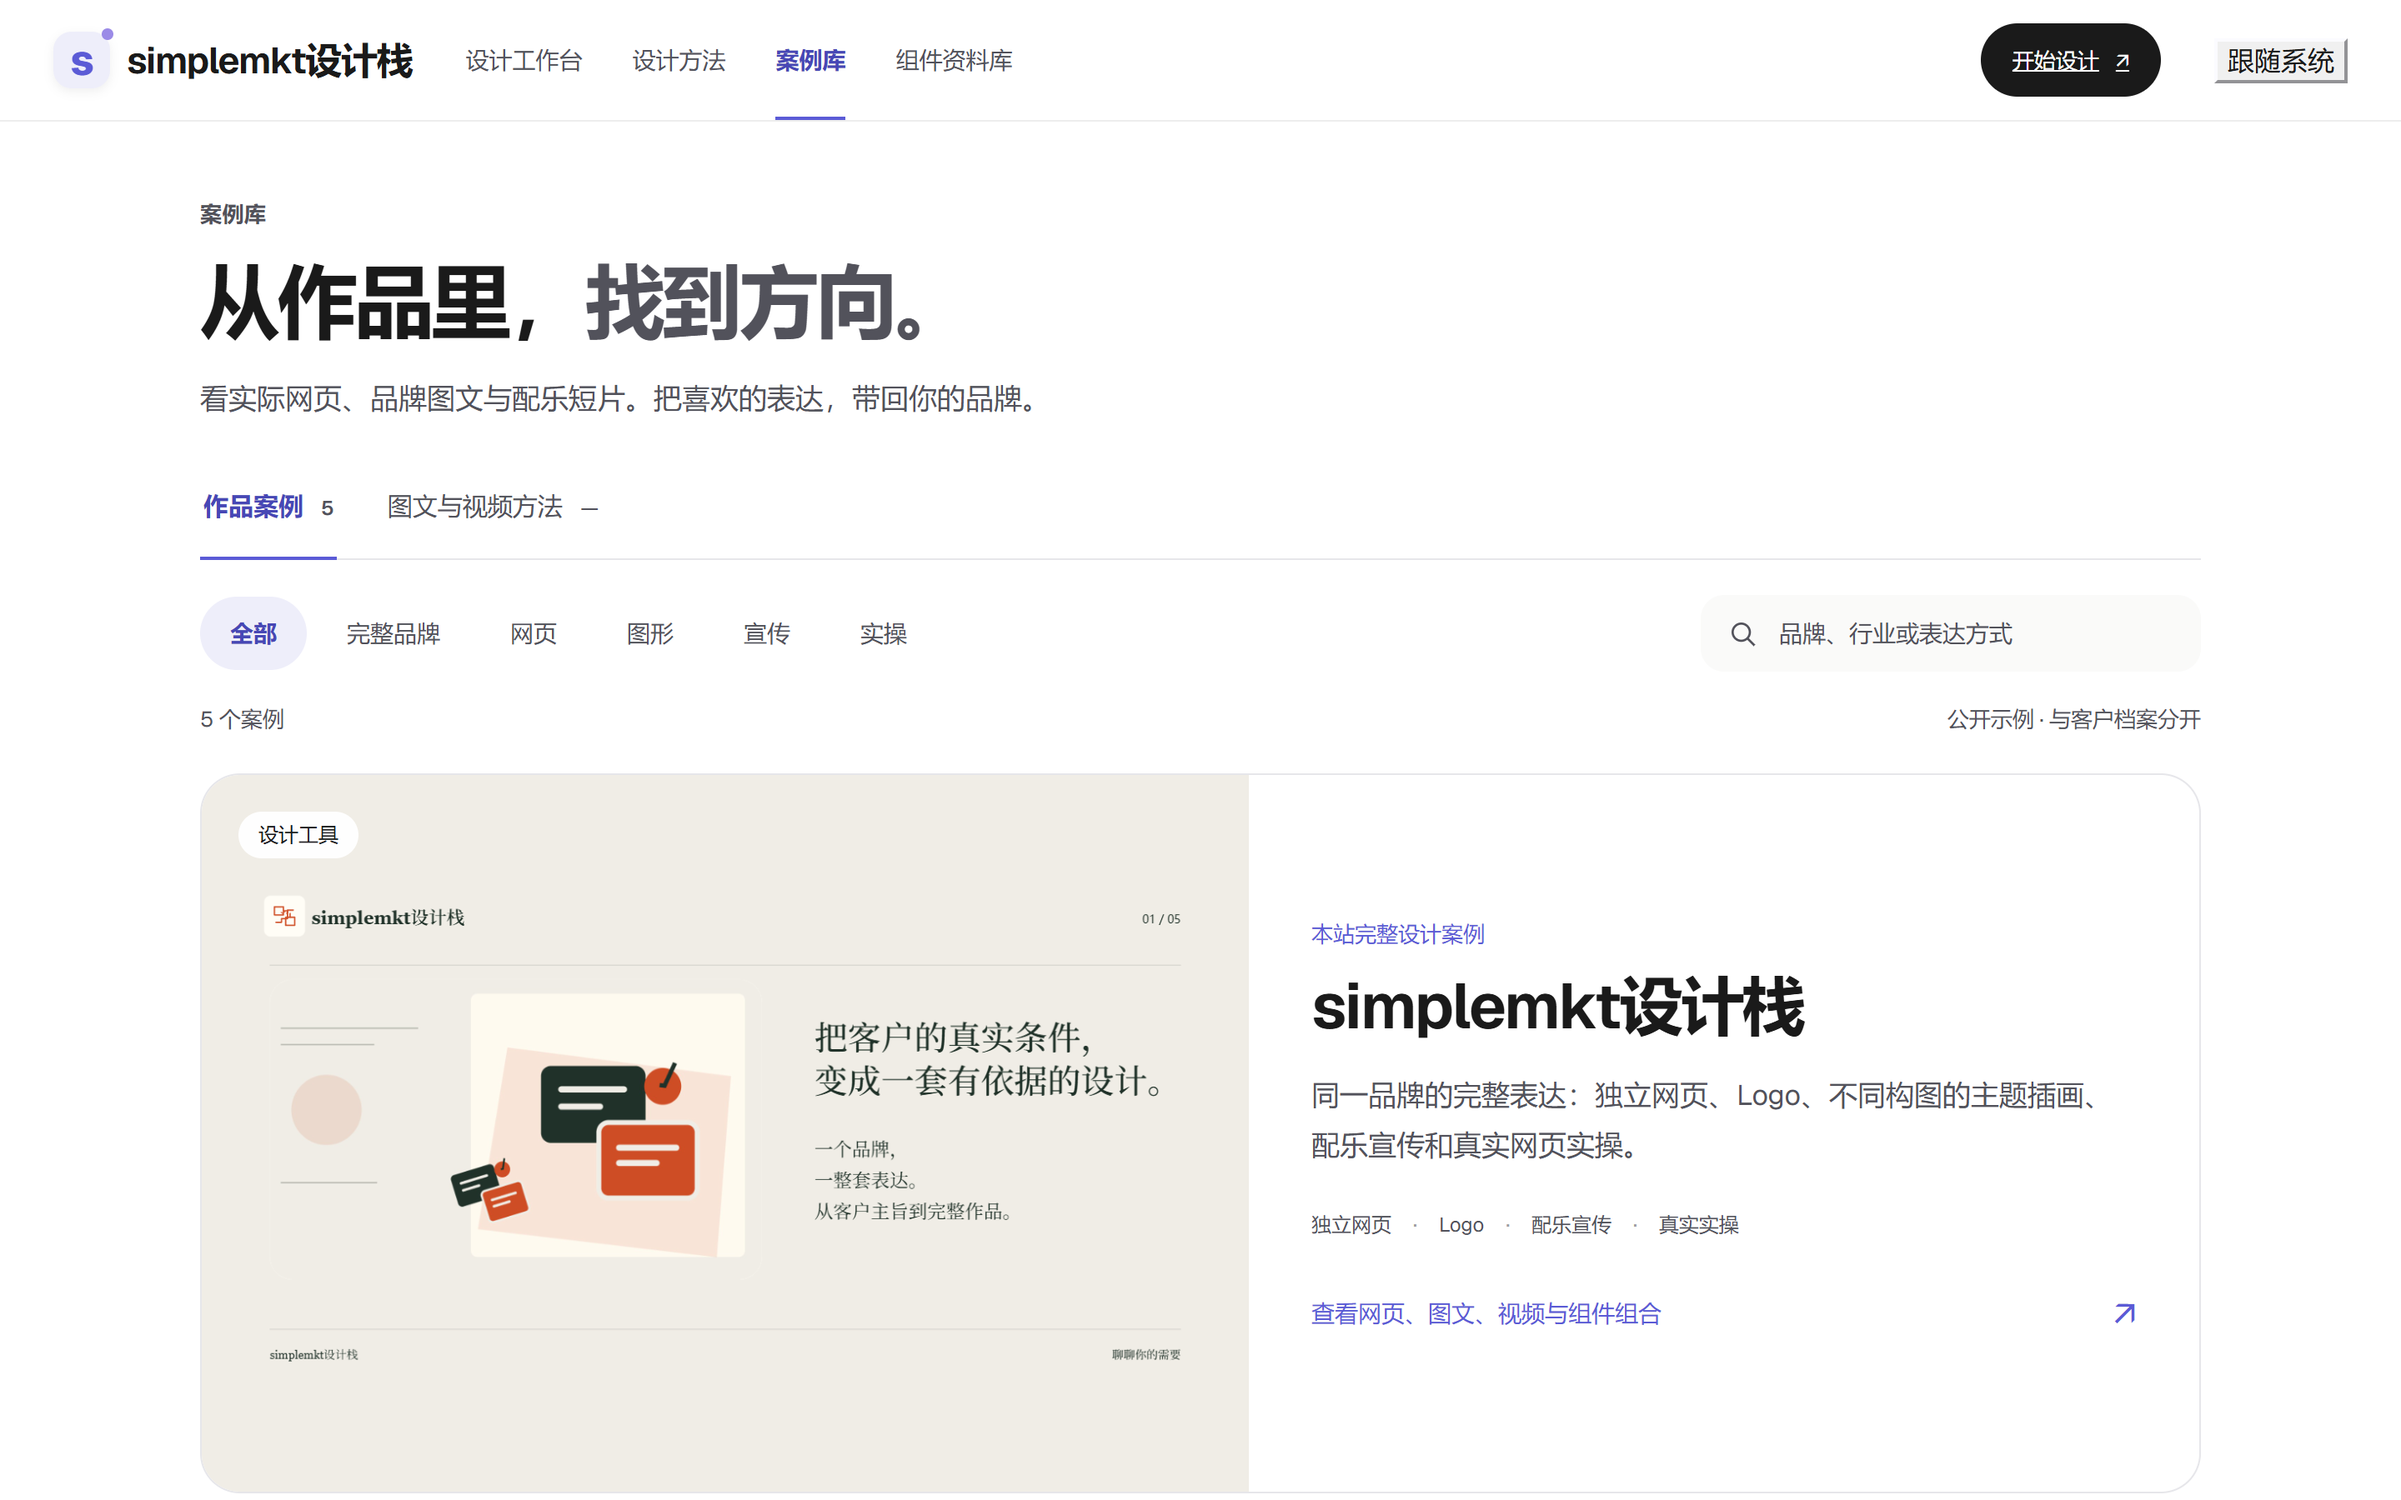
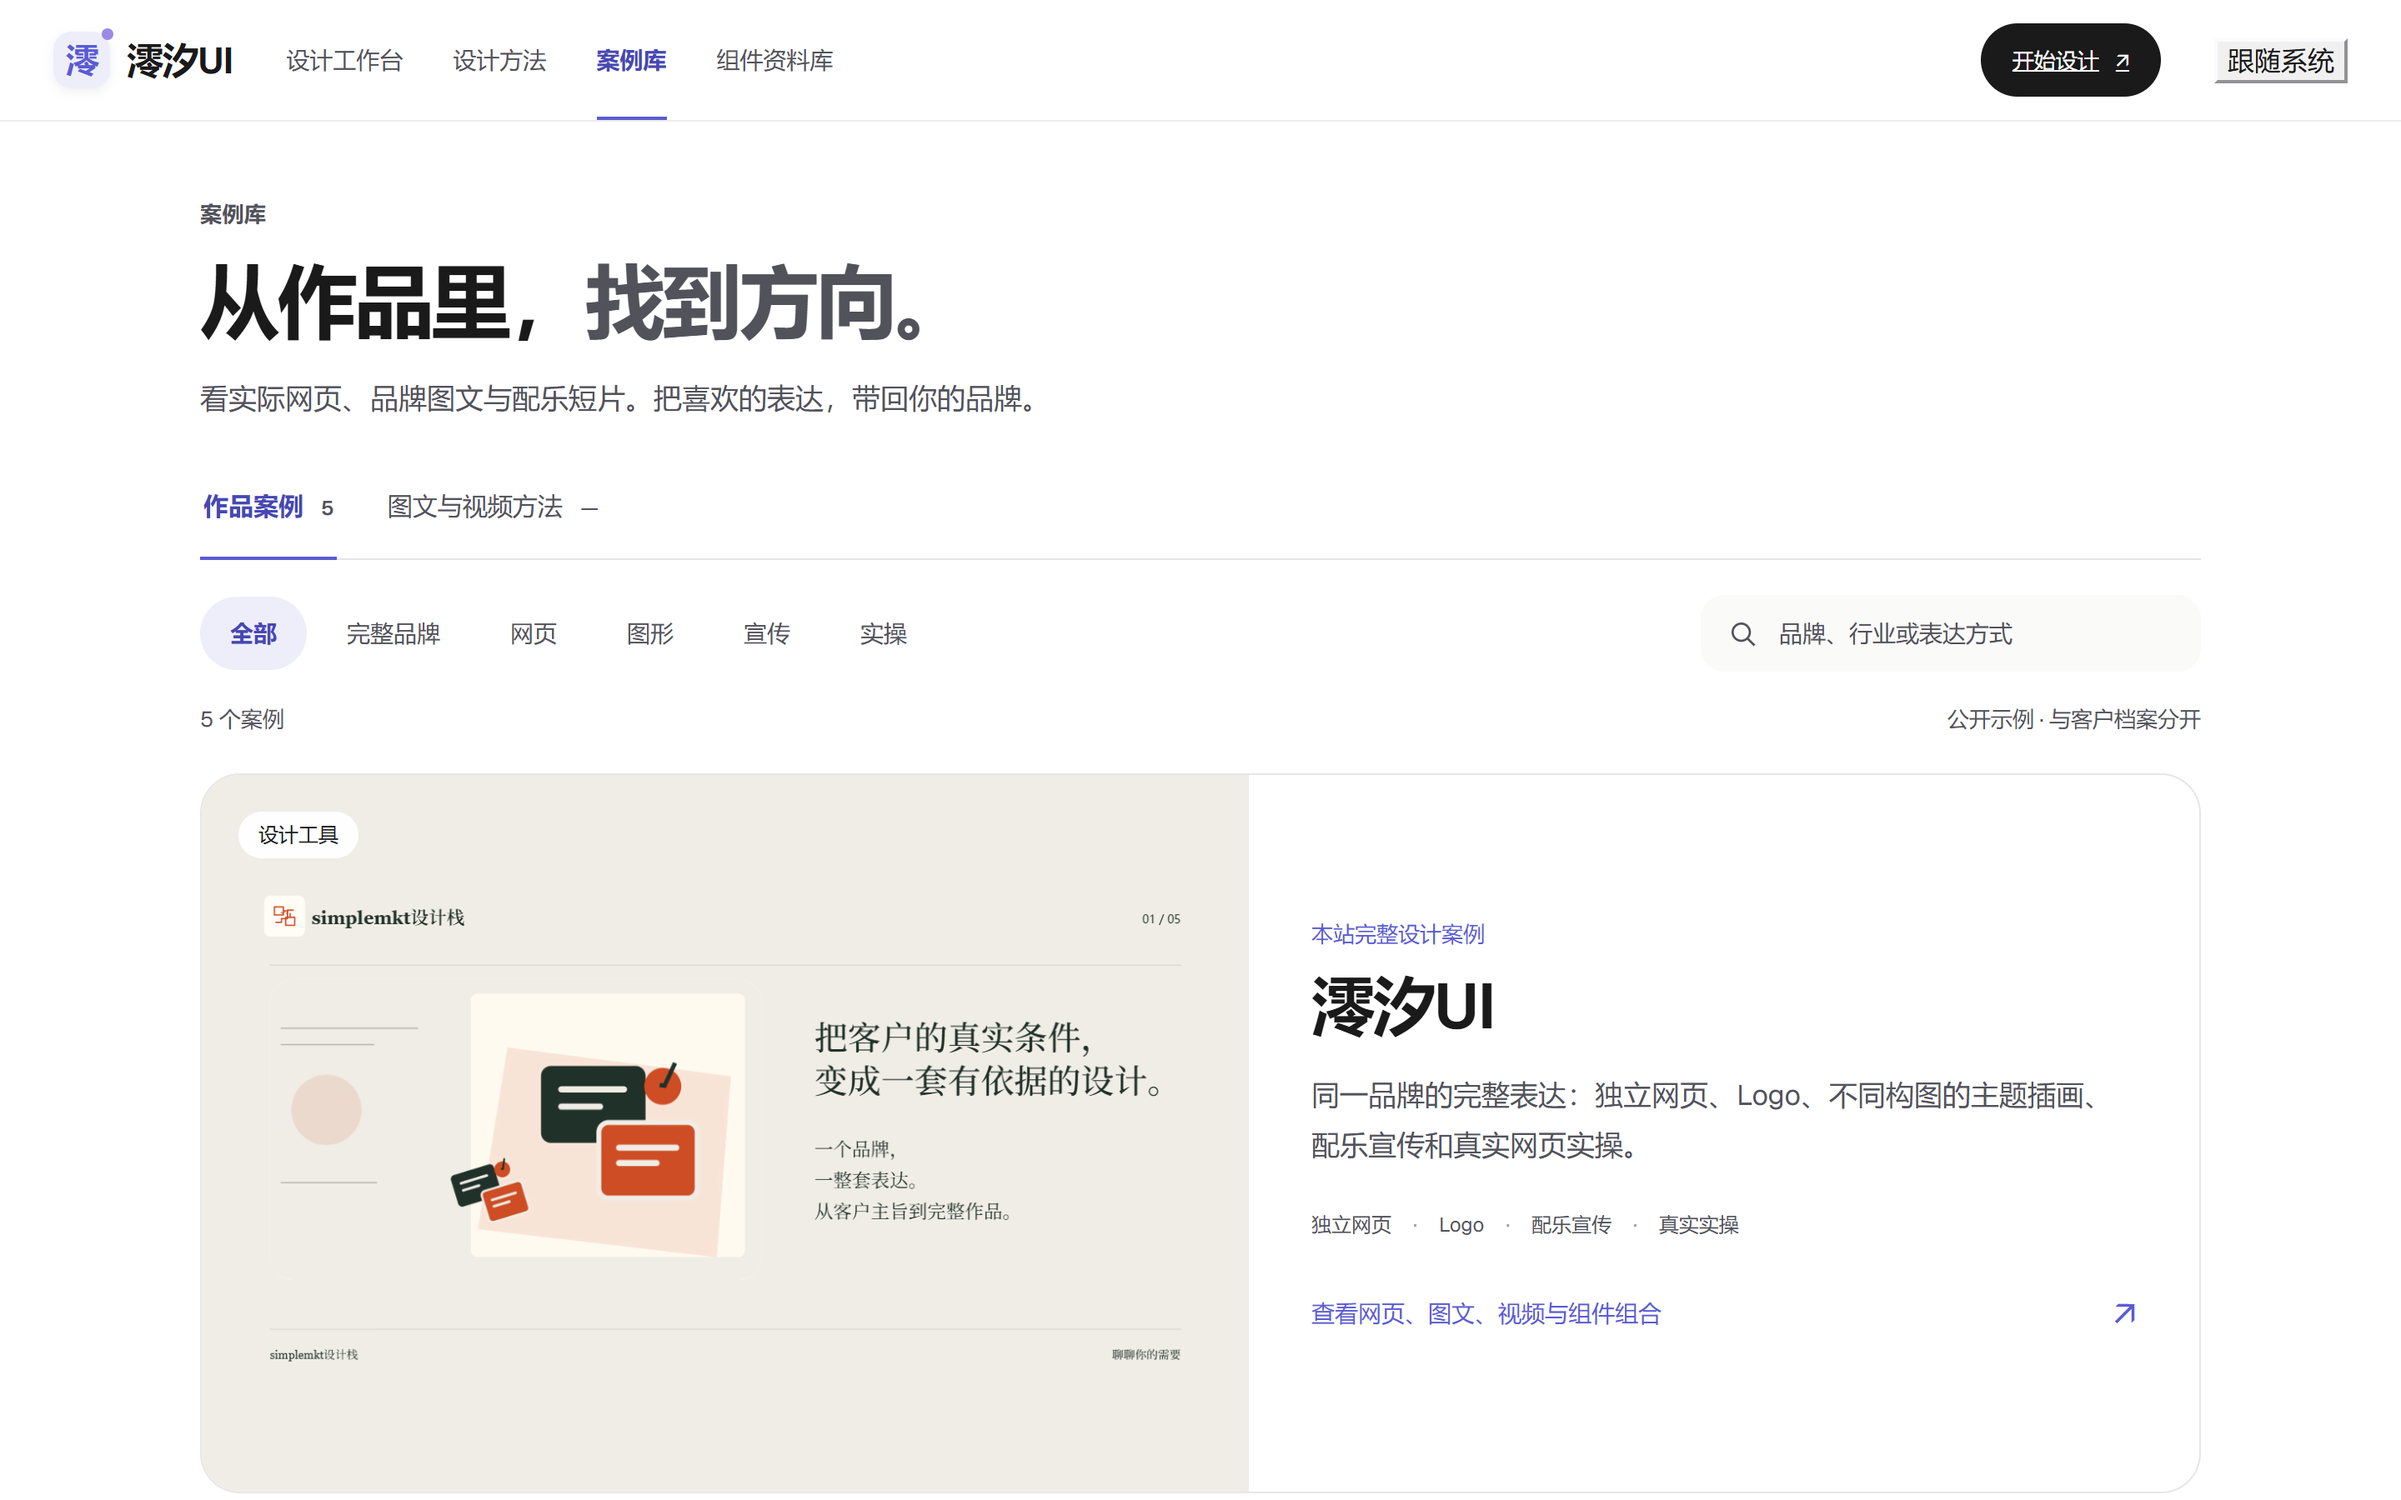
同步品牌统一后的工作台实拍
产品侧导航、标题与品牌小标已统一为澪汐UI（原 simplemkt设计栈 / 拉丁 s 标记）。
仓库门面截图此前仍是改名前版本，本次重截三张：工作台、设计方法、案例与媒体方法。
README 补上案例库截图的引用，并注明实拍来自统一命名后的界面。

Changed region(s): [[0.0312, 0.0311, 0.4375, 0.0622], [0.5312, 0.6533, 0.75, 0.7156]]

diff --git a/README.md b/README.md
@@ -38,7 +38,11 @@
 | `docs/design-language.md` | 语言层规则：四轴性格如何落到具体数值，以及哪些判断必须交给人 |
 | `docs/screenshots/` | 工作台、案例库、设计方法页实拍 |
 
+产品实拍（品牌名已统一为澪汐UI）：设计方法页与案例库页。
+
 ![设计方法](docs/screenshots/methods.png)
+
+![案例与媒体方法](docs/screenshots/cases.png)
 
 ## 快速开始
 
